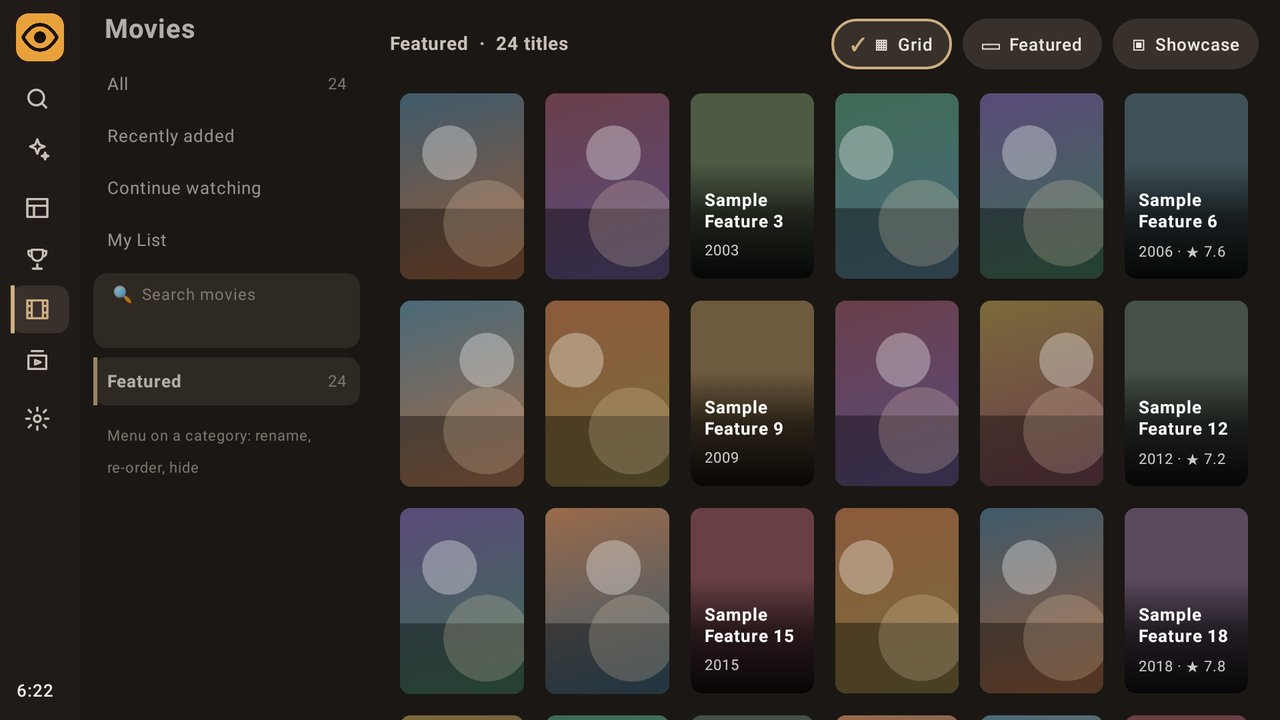
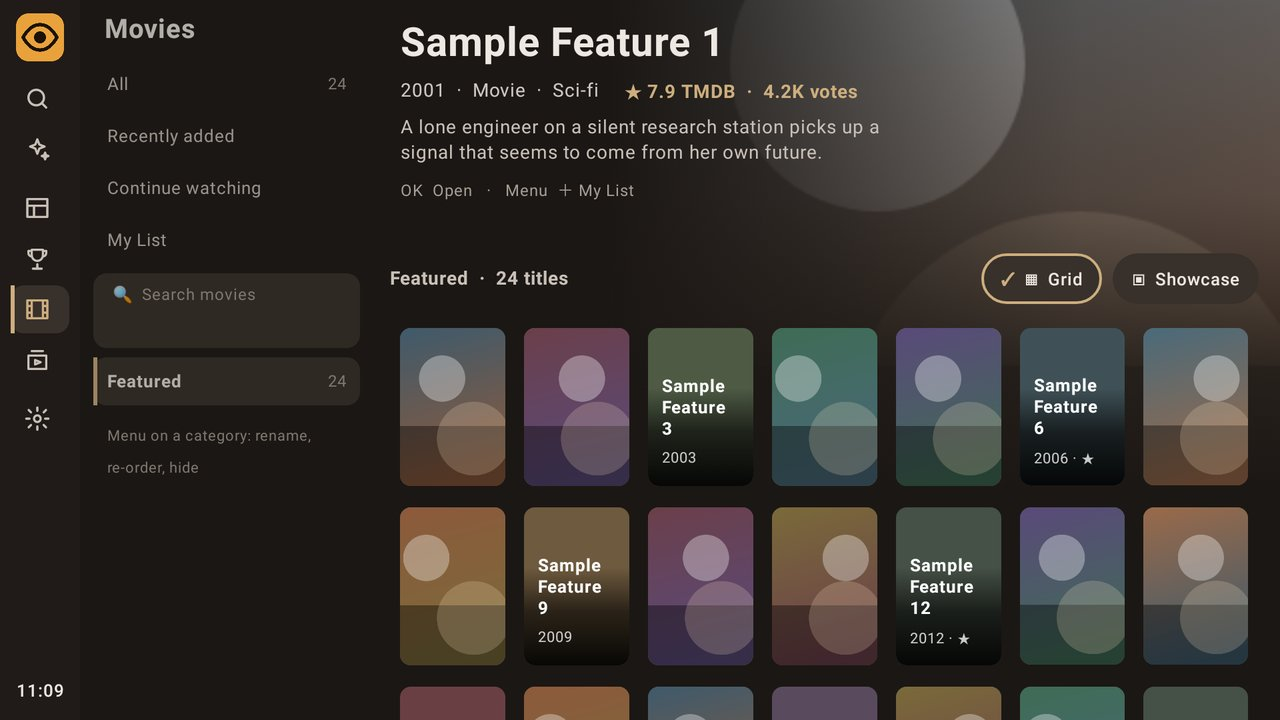
docs: user guide for 1.21.0: hero style (Grid artwork, title pages, Discover)
Claude-Session: https://claude.ai/code/session_01SDaYjDiVFtdsxWGwhkQR2c

diff --git a/docs/USER_GUIDE.md b/docs/USER_GUIDE.md
@@ -290,6 +290,7 @@ Discover shows what's new and popular, and where to watch it, using TMDB and Jus
 - Titles your provider carries are tagged **▶ ON YOUR PROVIDER** (with a large catalog, the tag may appear a moment after the posters). Open one to play it (**▶ Play**, or **▶ Episodes** for a series), add it to **My List**, or **Search my playlists**.
 - **Every version on your provider:** when your playlists have the title more than once (other languages, qualities or playlists), its page lists **N versions on your provider**, English first, each with its language, category and playlist. The page scrolls as one: **Down** from the buttons moves through the versions and then **Where to watch**. **OK** on a version plays that movie or opens that series. The main button plays the first and says which ("Plays: English · EN | Drama · My provider").
 - **Where to watch** lists Stream, Free, Rent and Buy options for your region.
+- **A title's page:** its artwork fills the screen, with the name in large type, the year, and **Genre**, **On** (your provider, or not on it) and its TMDB rating with how many people rated it.
 
 Discover needs a free **TMDB API key**. Enter it in **Settings › Discover**; it's stored encrypted on the device. How to get one: [TMDB](#tmdb-discover) in Supplemental services.
 
@@ -325,14 +326,10 @@ Sports lists real games from **ESPN's schedules** for today and the next 2 days,
 - **Left side**: Playlists, then categories: **All**, **Recently added**, **Continue watching** (movies part-way, and series until their latest episode is watched), **My List**, and your provider's categories.
 - **Right side**: posters for the chosen category. A category you pause on is read ahead, so OK shows it at once.
 - **Posters fill their tiles.** The title and year appear on a dark fade only on the highlighted poster, and on titles that have no artwork (most posters already show their title). The highlighted poster grows a little and gets a ring. **✓** in a corner means the title is in My List.
-- **Layouts**: the buttons above the posters switch between three ways of browsing. Each profile remembers its choice; **Up** from the top row of posters reaches them.
-  - **▦ Grid**: rows of posters.
+- **Layouts**: the buttons above the posters switch between two ways of browsing. Each profile remembers its choice; **Up** from the top row of posters reaches them.
+  - **▦ Grid**: rows of posters, with the highlighted title's artwork filling the screen behind them and fading into the page. Above the posters: its name, year, genre, TMDB rating (with how many people rated it) and a short description. Moving the highlight fades to the next title's picture. **Right** from the categories goes to the poster you were on.
 
-    ![Movies in the Grid layout](images/movies-grid.jpg)
-
-  - **▭ Featured**: the highlighted title's artwork, name, year and rating above the posters.
-
-    ![Movies in the Featured layout](images/movies-featured.jpg)
+    ![Movies in the Grid layout: the highlighted title's artwork and details above the posters](images/movies-grid.jpg)
 
   - **▣ Showcase**: the highlighted title's artwork fills the screen, with one row of posters along the bottom (**Left/Right** to move along it).
 
@@ -340,7 +337,11 @@ Sports lists real games from **ESPN's schedules** for today and the next 2 days,
 
 - **Each title is listed once.** When your playlists have the same title several times (other languages, qualities such as 4K or HD, provider tags such as "NF -" in front of the name, or other playlists), it appears once, shown by its English copy (else one with no language marked). This applies to All, Recently added, every category and the search.
 - **🔍 Search movies / 🔍 Search series** is in the category list, below My List. Results replace the poster grid; **✕ Clear search** ends the search. When fewer than 30 titles hold every word you typed, near matches (a small typo, or a word left out) are added after them.
-- **OK on a poster** opens its page: plot, cast, director, **▶ Play**, or **▶ Resume from [time]** and **Start over**, plus **+ My List**.
+- **OK on a poster** opens its page. The title's artwork fills the screen; on it are the name in large type, the year and length, three facts (**Genre**, **On**: the playlist, and **Rating**: your provider's), **▶ Play**, or **▶ Resume from [time]** and **Start over**, plus **+ My List**, the plot, cast and director, and **Ratings** (the TMDB score and how many people rated it).
+
+  ![A movie's page](images/movie-page.jpg)
+
+- **Artwork, descriptions and TMDB ratings** come from TMDB, using the TMDB key (see [TMDB](#tmdb-discover)). Each title is looked up once, when you highlight or open it, and remembered on the TV. Without a key, the provider's own pictures and details are used. Kids profiles never look titles up.
 - **⇄ N versions** (on a title with several copies) lists each copy with its language, name, category and playlist; ✓ marks the one shown, and the line **This version: …** under the buttons says which one you're on. **OK** on another copy shows that one, with its own episodes, resume point and My List button. The language comes from codes on the name or category ("EN |", "FR -", "VF", "MULTI"…); copies without one show "Language not marked". Series pages list episodes by **Season**, with resume points; episodes you've played to the end say **✓ Watched**. **A series page opens on the next episode to watch**, with its season chosen: Season 1, Episode 1 for a series you haven't started, otherwise the episode after the last one you finished (or the one you stopped part-way through). The page scrolls as one: **Up** from the episode goes to the season buttons, then the title's buttons; from the buttons, **Down** goes to the season buttons, then through every episode, however long the description. After you watch an episode and press **Back**, that episode is highlighted.
 - **Each category (and each search) keeps its own place.**
 - **Back** goes one step at a time: from a title's page to its poster, from a poster to the category you're in (highlighted), then to the main menu, on **Movies** or **Series**.
@@ -765,9 +766,12 @@ Every public release since 1.0.35, newest first. From 1.1.0, versions are number
 
 ### 1.21.0 — November 18, 2026, 5:35 PM CT (current)
 
-**Change log**
+**Release notes**
 
-- Hero style: artwork behind the Grid and on movie, series and Discover title pages
+- **Grid with artwork:** the highlighted title's picture fills the screen behind the posters and fades into the page, with its name, year, genre, TMDB rating and a short description above them. Featured is gone (a profile set to it gets the Grid); Showcase stays.
+- **Movie and series pages:** the artwork fills the screen, with the name in large type, **Genre · On · Rating**, the buttons, the plot and **Ratings** from TMDB.
+- **Discover's title pages** in the same style.
+- Artwork and details come from TMDB with your TMDB key, once per title; without a key the provider's pictures are used. Kids profiles never look titles up.
 
 ### 1.20.1 — November 18, 2026, 1:05 PM CT
 
